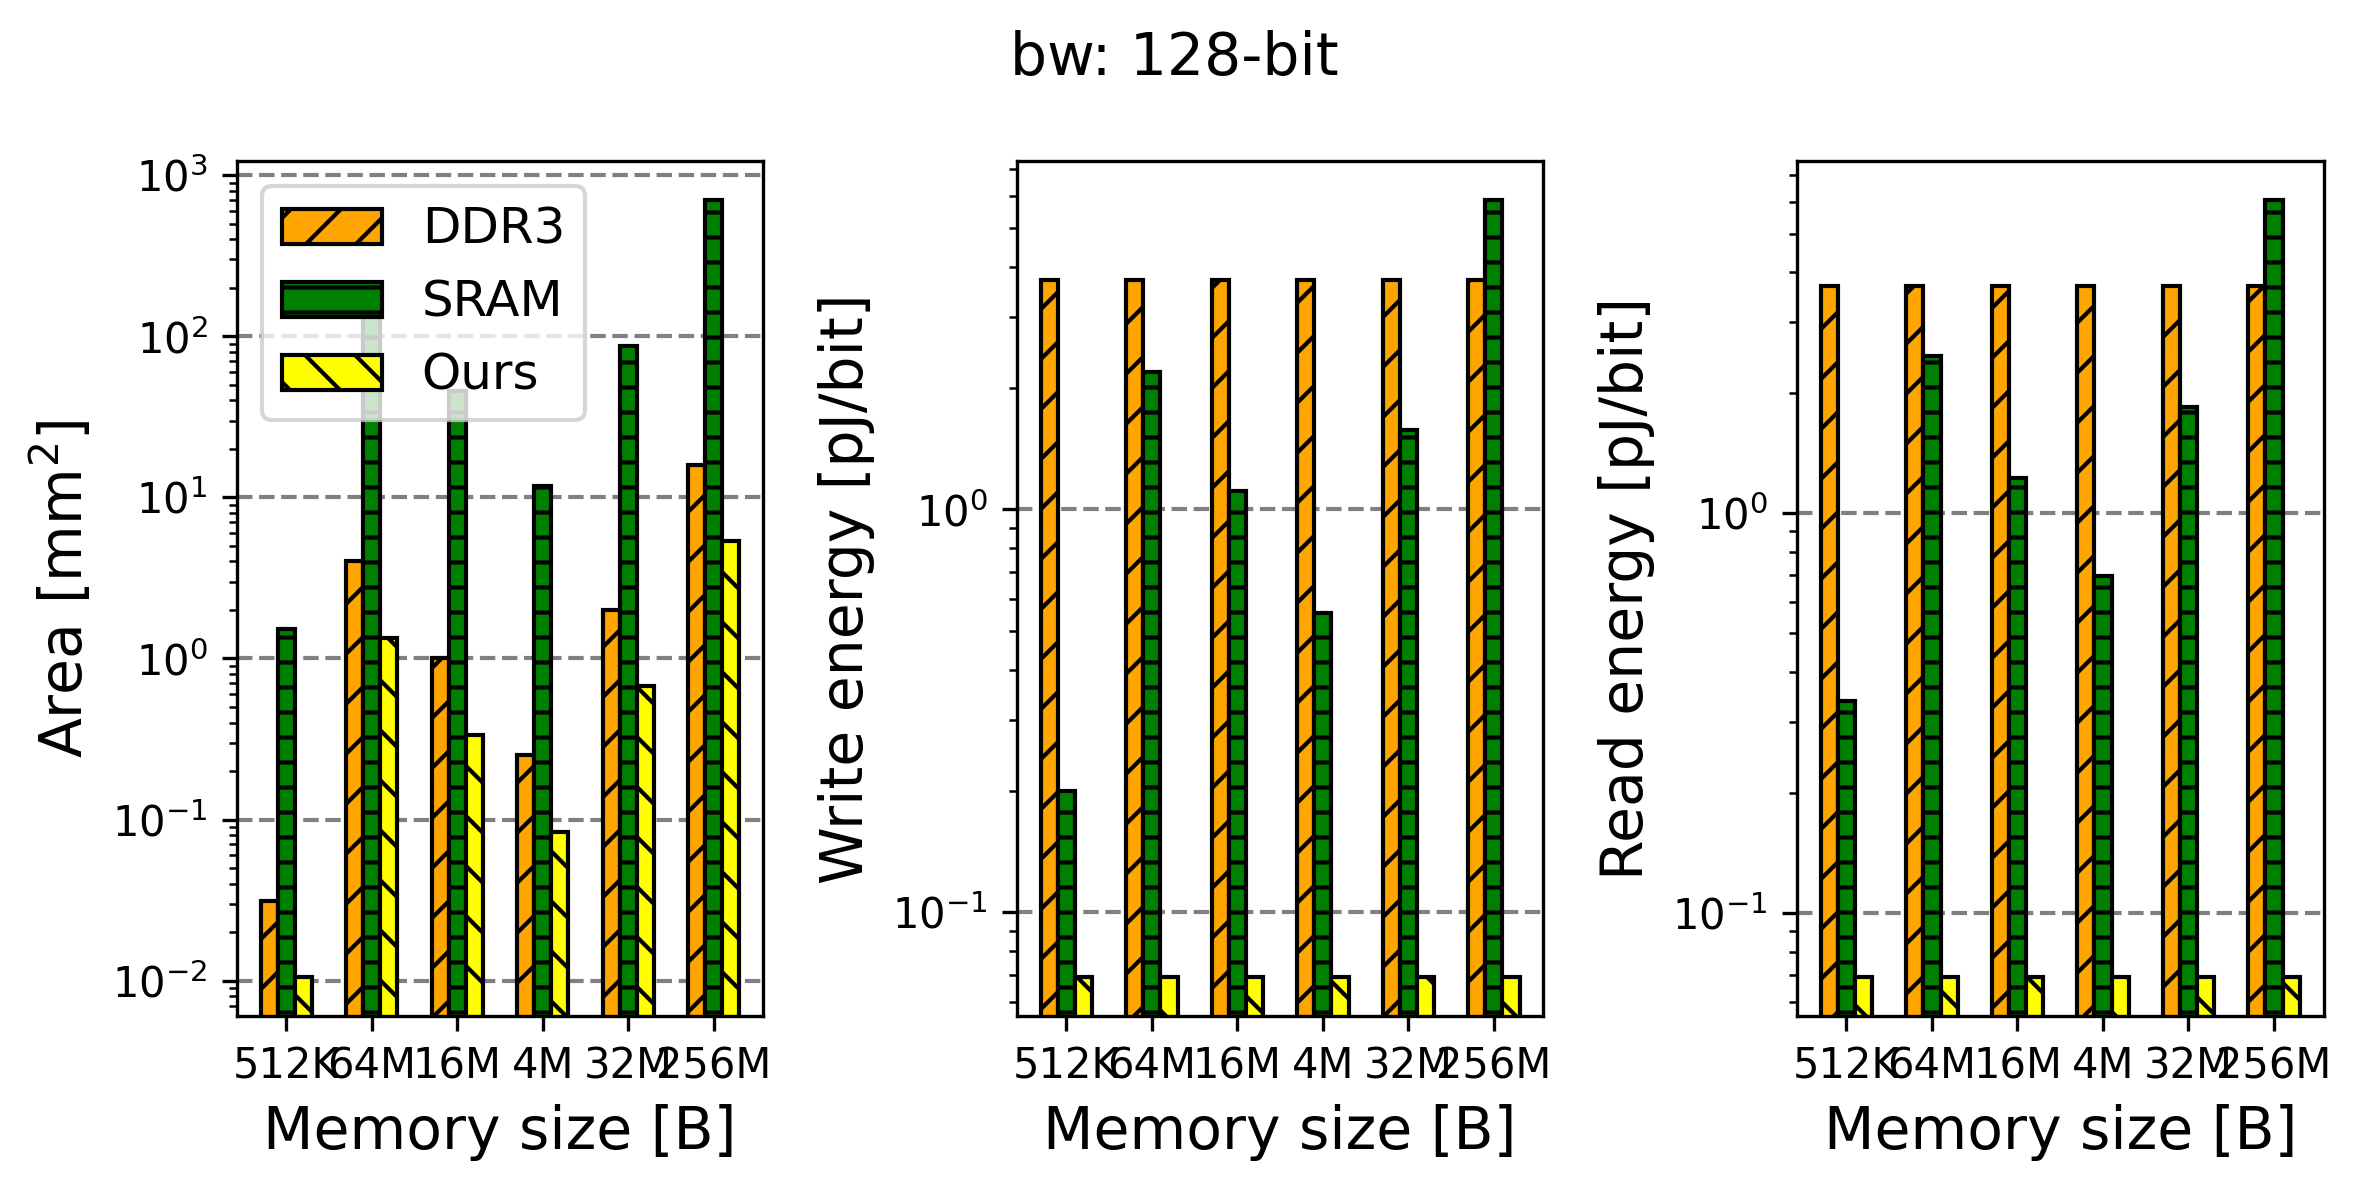
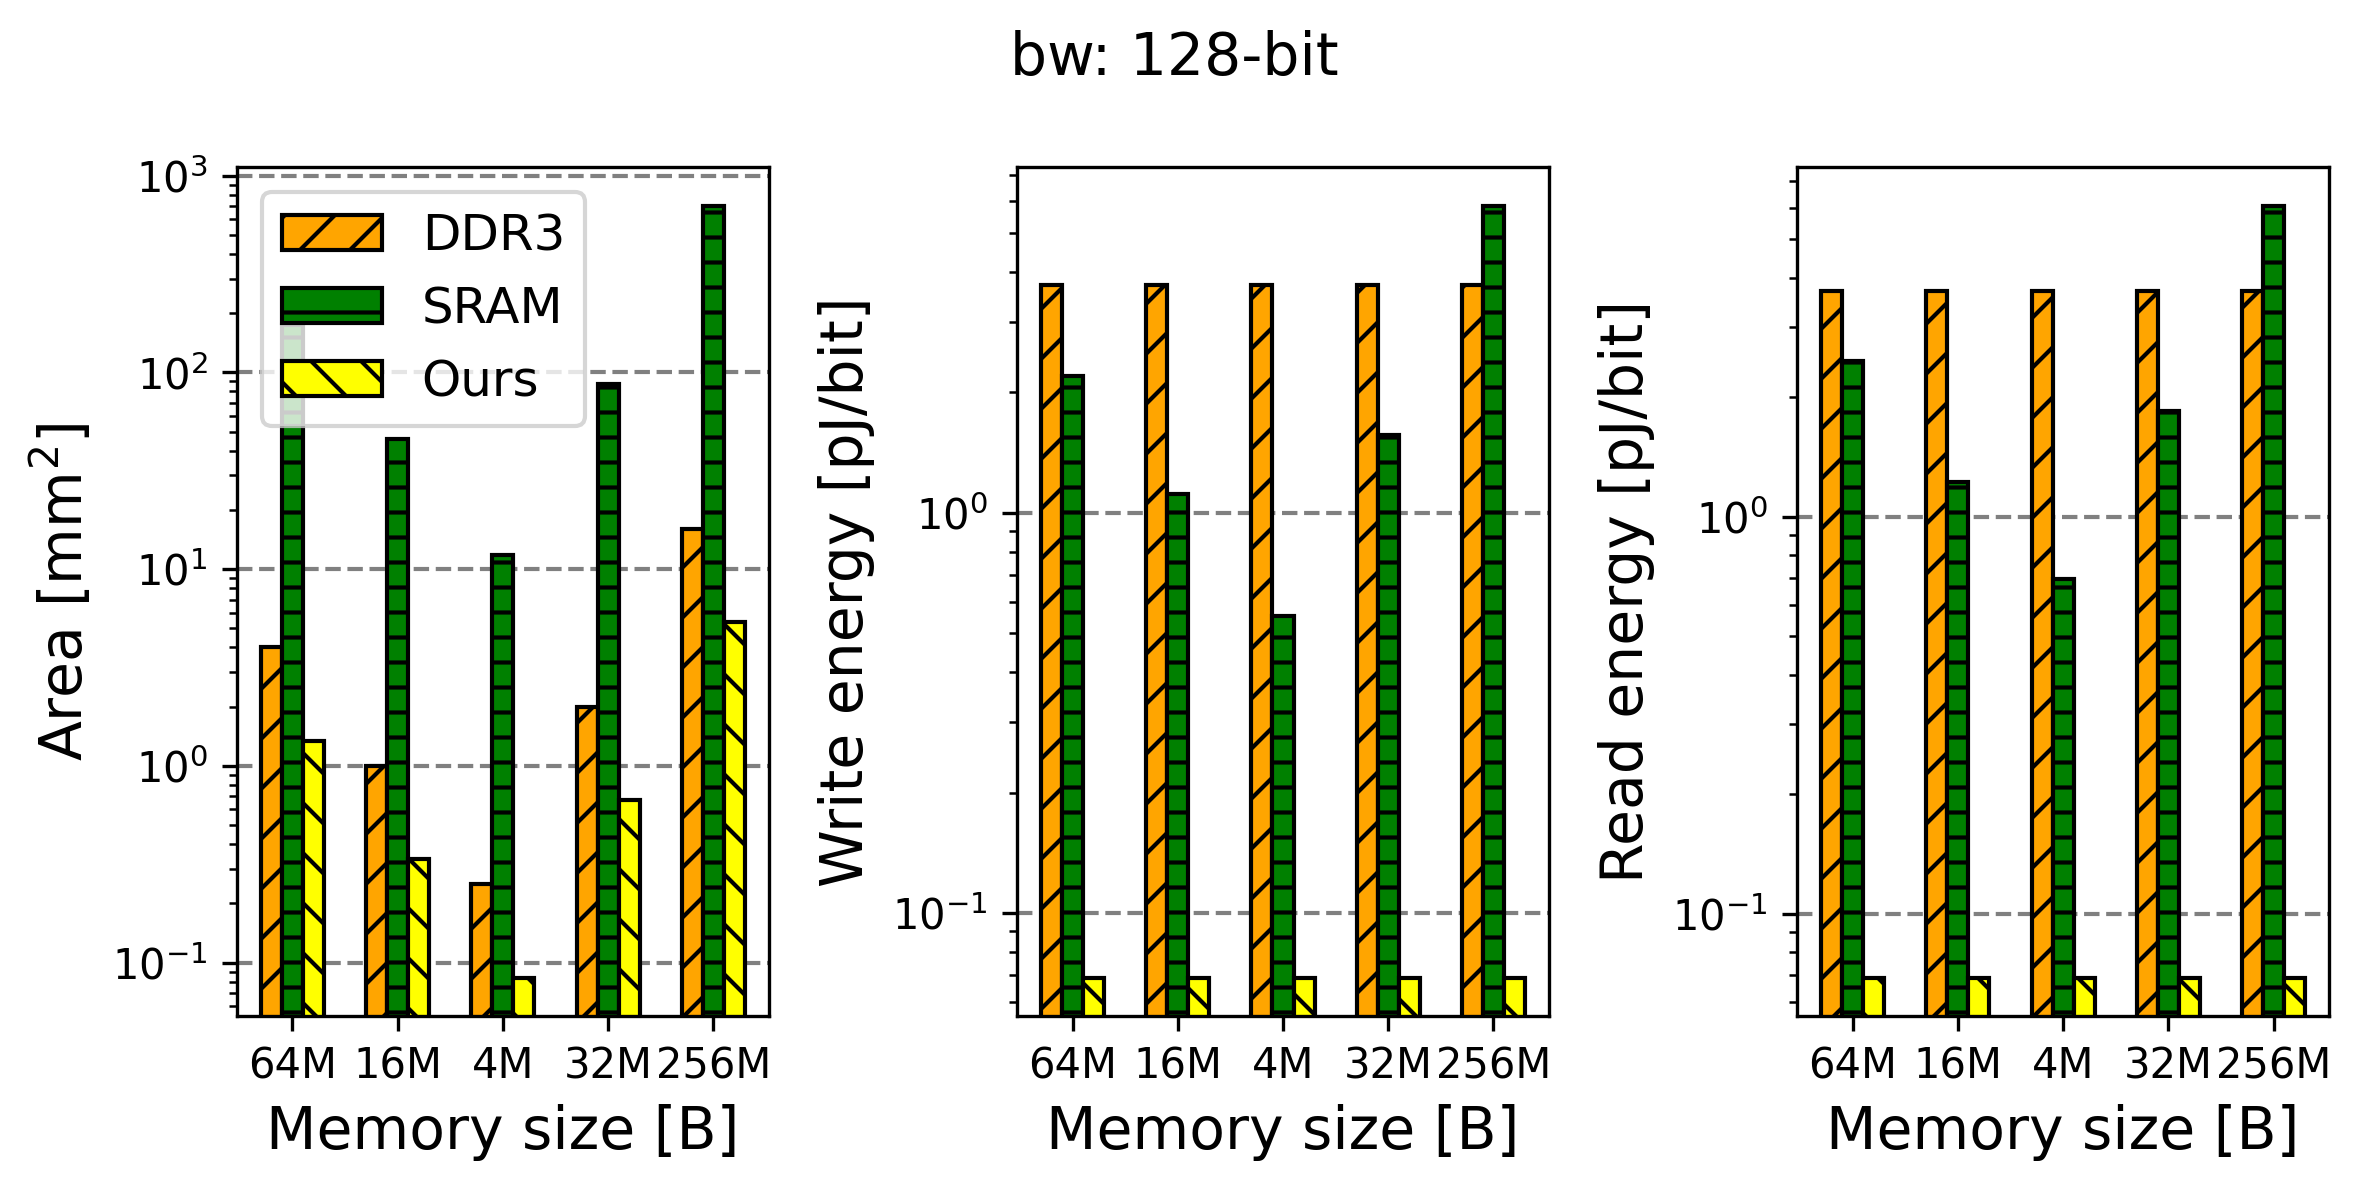
update figure colors

diff --git a/iscas/visualization.py b/iscas/visualization.py
@@ -144,7 +144,7 @@ def zigzag_evaluation():
     ###############################
     # zigzag setting
     workloads = {
-        "auto-encoder": "zigzag/inputs/workload/deepautoencoder.onnx",
+        # "auto-encoder": "zigzag/inputs/workload/deepautoencoder.onnx",
         "alexnet": "zigzag/inputs/workload/alexnet.onnx",
         "resnet18": "zigzag/inputs/workload/resnet18.onnx",
         "mobilenetv2": "zigzag/inputs/workload/mobilenetv2.onnx",
@@ -153,7 +153,8 @@ def zigzag_evaluation():
     mapping = "zigzag/inputs/mapping/default_imc.yaml"
     accelerator = "zigzag/inputs/hardware/dimc.yaml"
     # required top-level weight memory size
-    required_weight_in_byte = {"auto-encoder": 264192,
+    required_weight_in_byte = {
+        # "auto-encoder": 264192,
                                "alexnet": 60954656,
                                "resnet18": 11678912,
                                "mobilenetv2": 3469760,
@@ -162,7 +163,8 @@ def zigzag_evaluation():
     # current working directory
     cwd = os.getcwd()
     ###############################
-    required_weight_in_byte_rounded = {"auto-encoder": 512 * 1024,
+    required_weight_in_byte_rounded = {
+        # "auto-encoder": 512 * 1024,
                                        "alexnet": 64 * 1024 * 1024,
                                        "resnet18": 16 * 1024 * 1024,
                                        "mobilenetv2": 4 * 1024 * 1024,
@@ -229,7 +231,7 @@ def zigzag_plot(attributes_to_plot: list = ["energy", "latency", "area", "tclk"]
     # extract mem list
     mem_list = list(results.keys())
     label_list = ["DDR3", "SRAM", "Ours"][:len(mem_list)]
-    facecolor_list = ["orange", "green", "yellow"][:len(mem_list)]
+    facecolor_list = [u"#ccd5ae", u"#fafae0", u"#cdb4db"][:len(mem_list)]
     hatch_list = ["//", "--", "\\\\"][:len(mem_list)]
     if len(mem_list) == 3:
         bar_offset_list = [-1, 0, 1]
@@ -272,6 +274,7 @@ def zigzag_plot(attributes_to_plot: list = ["energy", "latency", "area", "tclk"]
     for x in range(fig_num):
         axs[x].set_yscale("log")
     plt.tight_layout()
+    plt.savefig("./zigzag_comparison.png", dpi=300, bbox_inches="tight")
     plt.show()
     pass
 

diff --git a/zigzag/api.py b/zigzag/api.py
@@ -90,21 +90,21 @@ def get_hardware_performance_zigzag(
         # Parse the accelerator module/passthrough given accelerator
         AcceleratorParserStage,
         # Save the summed CME energy and latency to a json
-        SimpleSaveStage,
+        # SimpleSaveStage,
         # Save all received CMEs in a list to a pickle file
-        PickleSaveStage,
+        # PickleSaveStage,
         # Sum up the received best CME across all layers of the workload
         SumStage,
         # Search the lowest allowed memory level per operand per layer
-        SearchInterLayerDataLocalityStage if do_exploint_inter_layer_locality else None,
+        # SearchInterLayerDataLocalityStage if do_exploint_inter_layer_locality else None,
         # Iterate through the different layers in the workload
         WorkloadStage,
         # Save the chosen loop ordering and memory hierarchy
-        VisualizationStage,
+        # VisualizationStage,
         # Remove unused memories
-        ExploitInterLayerDataLocalityStage if do_exploint_inter_layer_locality else None,
+        # ExploitInterLayerDataLocalityStage if do_exploint_inter_layer_locality else None,
         # Save each processed layer to a json
-        CompleteSaveStage,
+        # CompleteSaveStage,
         # Reduce all CMEs, returning minimal energy/latency one
         opt_stage,
         # Generate multiple spatial mappings (SM)
